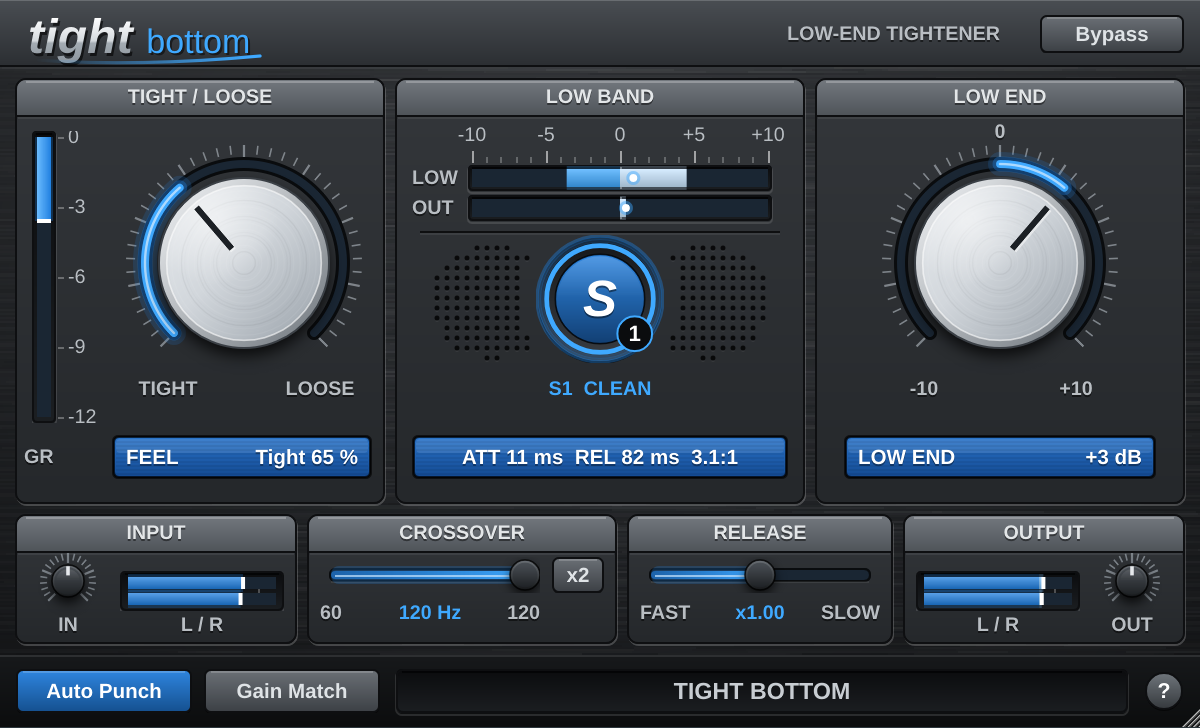
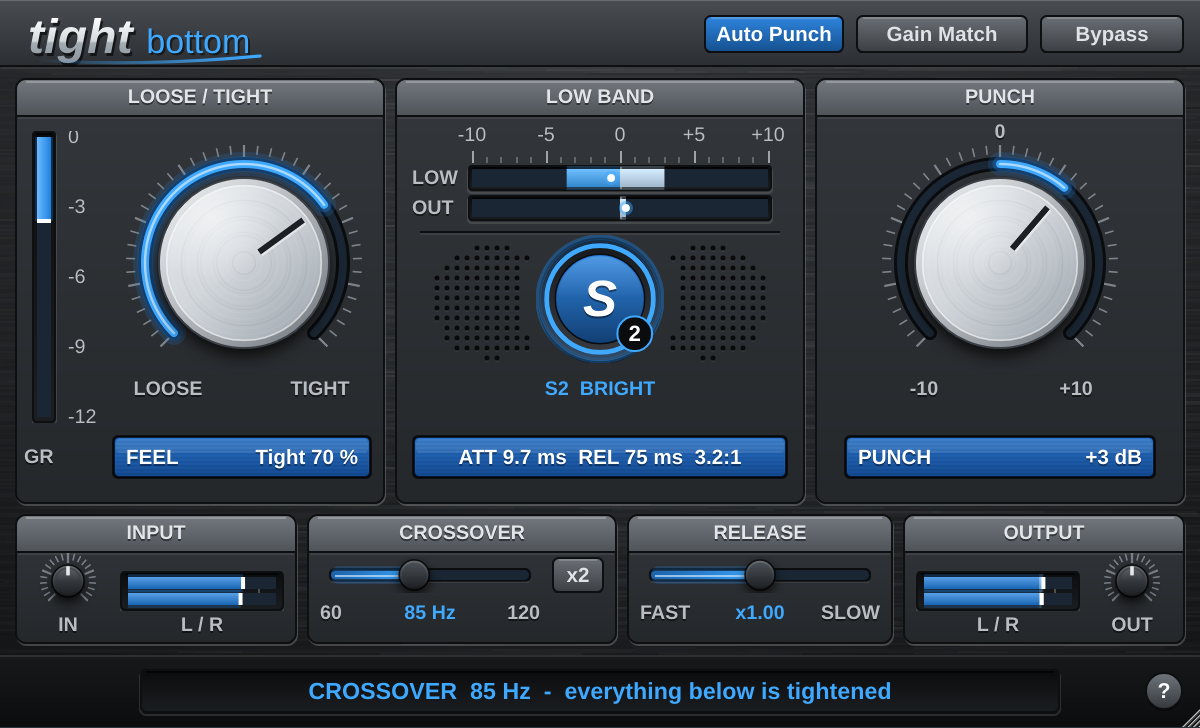
Match the walkthrough: turn up = tighter, PUNCH knob, S Dull/Bright, top-corner buttons
Also double-click a section name (e.g. CROSSOVER) to show its exact value.

Claude-Session: https://claude.ai/code/session_01HY2UoC4CemLNdp8wdHjpG9

diff --git a/Source/PluginEditor.cpp b/Source/PluginEditor.cpp
@@ -12,7 +12,7 @@ namespace
     const Rectangle<float> grilleLeft  { 216.0f, 122.0f, 60.0f, 58.0f };
     const Rectangle<float> grilleRight { 324.0f, 122.0f, 60.0f, 58.0f };
     const Point<float> sCentre { 300.0f, 150.0f };
-    const Rectangle<float> statusBox   { 198.0f, 335.0f, 366.0f, 22.0f };
+    const Rectangle<float> statusBox   { 70.0f, 335.0f, 460.0f, 22.0f };
 }
 
 //==============================================================================
@@ -44,7 +44,7 @@ TightBottomPanel::TightBottomPanel (TightBottomAudioProcessor& p)
     tightKnob.describeValue = [this] (double v) { return describeMacro (v, param (ParamIDs::release)).replace (", ", "\n"); };
     for (VirusKnob* k : { &lowEndKnob, &inKnob, &outKnob })
         k->displayValue = [] (double v) { return formatDb (v); };
-    lowEndKnob.describeValue = [] (double) { return String ("Low-band gain after the compressor (punch back)"); };
+    lowEndKnob.describeValue = [] (double) { return String ("Adds (or removes) low-end punch after the compressor.\nWith Auto Punch on, this adds even more on top."); };
     inKnob.describeValue     = [] (double) { return String ("Input trim"); };
     outKnob.describeValue    = [] (double) { return String ("Output trim (after Gain Match)"); };
 
@@ -62,7 +62,7 @@ TightBottomPanel::TightBottomPanel (TightBottomAudioProcessor& p)
     const std::tuple<TextButton*, const char*, const char*> buttons[] =
     {
         { &x2Button,        ParamIDs::xoverX2,   "x2: doubles the crossover range (120 - 240 Hz)" },
-        { &autoPunchButton, ParamIDs::autoPunch, "Auto Punch: automatic makeup on the low band, so Tight/Loose changes the feel, not the level" },
+        { &autoPunchButton, ParamIDs::autoPunch, "A (Auto Punch): puts the punch back automatically, so Loose/Tight changes the feel, not the level. PUNCH adds more on top" },
         { &gainMatchButton, ParamIDs::gainMatch, "Gain Match: output follows the input loudness (K-weighted, about 3 s) for fair A/B" },
         { &bypassButton,    ParamIDs::bypass,    "Bypass (click-free)" },
     };
@@ -116,6 +116,9 @@ void TightBottomPanel::resized()
     releasePanel = { 314.0f, 258.0f, 132.0f, 64.0f };
     outPanel     = { 452.0f, 258.0f, 140.0f, 64.0f };
 
+    // top corner: A (Auto Punch), Gain Match, Bypass
+    autoPunchButton.setBounds (352, 8, 70, 19);
+    gainMatchButton.setBounds (428, 8, 86, 19);
     bypassButton.setBounds (520, 8, 72, 19);
 
     // TIGHT / LOOSE
@@ -142,8 +145,6 @@ void TightBottomPanel::resized()
     outKnob.setBounds (544, 276, 44, 44);
 
     // bottom bar
-    autoPunchButton.setBounds (8, 335, 88, 22);
-    gainMatchButton.setBounds (102, 335, 88, 22);
     helpButton.setBounds (kWidth - 28, 336, 20, 20);
     helpOverlay.setBounds (getLocalBounds());
 }
@@ -232,16 +233,15 @@ void TightBottomPanel::paint (Graphics& g)
     g.drawHorizontalLine (kTopStripH, 0.0f, (float) kWidth);
 
     drawWordmark (g, { 14.0f, 0.0f, 260.0f, (float) kTopStripH });
-    CustomLookAndFeel::drawSmallLabel (g, "Low-End Tightener", { 300.0f, 8.0f, 200.0f, 19.0f }, Justification::centredRight);
 
     // --- main panels ------------------------------------------------------------------
-    CustomLookAndFeel::drawPanel (g, leftPanel,   "Tight / Loose");
+    CustomLookAndFeel::drawPanel (g, leftPanel,   "Loose / Tight");
     CustomLookAndFeel::drawPanel (g, centrePanel, "Low Band");
-    CustomLookAndFeel::drawPanel (g, rightPanel,  "Low End");
+    CustomLookAndFeel::drawPanel (g, rightPanel,  "Punch");
 
     // Tight / Loose: end labels under the knob, GR label
-    CustomLookAndFeel::drawSmallLabel (g, "Tight", { 52.0f, 188.0f, 64.0f, 14.0f });
-    CustomLookAndFeel::drawSmallLabel (g, "Loose", { 128.0f, 188.0f, 64.0f, 14.0f });
+    CustomLookAndFeel::drawSmallLabel (g, "Loose", { 52.0f, 188.0f, 64.0f, 14.0f });
+    CustomLookAndFeel::drawSmallLabel (g, "Tight", { 128.0f, 188.0f, 64.0f, 14.0f });
     CustomLookAndFeel::drawSmallLabel (g, "GR", { 12.0f, 222.0f, 28.0f, 14.0f }, Justification::centredLeft);
 
     // Low End: -10 / 0 / +10
@@ -258,7 +258,7 @@ void TightBottomPanel::paint (Graphics& g)
     CustomLookAndFeel::drawGrille (g, grilleRight, sCentre, 40.0f);
 
     const int sMode = jlimit (0, 2, roundToInt (param (ParamIDs::sMode)));
-    const String sText[] = { "S Filter  Off", "S1  Clean", "S2  Shape" };
+    const String sText[] = { "S Enhancer  Off", "S1  Dull", "S2  Bright" };
     g.setFont (CustomLookAndFeel::uiFont (11.0f, true));
     g.setColour (sMode > 0 ? VirusColours::blue : VirusColours::labelText);
     g.drawText (sText[sMode].toUpperCase(), Rectangle<float> (206.0f, 188.0f, 188.0f, 14.0f), Justification::centred);
@@ -295,7 +295,9 @@ void TightBottomPanel::paint (Graphics& g)
     CustomLookAndFeel::drawInsetBox (g, statusBox, 3.0f);
     g.setFont (CustomLookAndFeel::uiFont (13.0f, true));
     g.setColour (Colour (0xffc8cdd2));
-    g.drawText ("TIGHT BOTTOM", statusBox, Justification::centred);
+    const bool showMessage = Time::getMillisecondCounterHiRes() < statusUntilMs;
+    if (showMessage) g.setColour (VirusColours::blue);
+    g.drawText (showMessage ? statusMessage : String ("TIGHT BOTTOM"), statusBox, Justification::centred);
 }
 
 //==============================================================================
@@ -316,7 +318,7 @@ void TightBottomPanel::timerCallback()
 
     const float tl = param (ParamIDs::tightLoose);
     tightLcd.setContent ("FEEL", describeTightLoose (tl));
-    lowEndLcd.setContent ("LOW END", formatDb (param (ParamIDs::lowEnd)));
+    lowEndLcd.setContent ("PUNCH", formatDb (param (ParamIDs::lowEnd)));
 
     const auto macro = tb::macroSettings (knobToTightness (tl), sliderToReleaseScale (param (ParamIDs::release)));
     macroLcd.setContent ({}, "ATT " + formatMs (macro.attackMs) + "  REL " + formatMs (macro.releaseMs)
@@ -325,11 +327,45 @@ void TightBottomPanel::timerCallback()
     // repaint the static labels when S mode or x2 change (also from automation)
     const int labelState = roundToInt (param (ParamIDs::sMode)) * 2 + (param (ParamIDs::xoverX2) > 0.5f ? 1 : 0)
                          + 8 * roundToInt (param (ParamIDs::crossover) * 10.0f) + 8 * 4096 * roundToInt (param (ParamIDs::release) * 10.0f);
+    if (statusUntilMs > 0.0 && now >= statusUntilMs)
+    {
+        statusUntilMs = 0.0;
+        repaint (statusBox.toNearestInt());
+    }
     if (labelState != lastLabelState)
     {
         lastLabelState = labelState;
         repaint();
     }
+}
+
+//==============================================================================
+void TightBottomPanel::showStatus (const String& text)
+{
+    statusMessage = text;
+    statusUntilMs = Time::getMillisecondCounterHiRes() + 2500.0;
+    repaint (statusBox.toNearestInt());
+}
+
+void TightBottomPanel::mouseDoubleClick (const MouseEvent& e)
+{
+    // Double-click a section name to see exactly where it is set.
+    const auto p = e.position;
+    const auto header = [] (Rectangle<float> r) { return r.withHeight (18.0f); };
+    const bool x2 = param (ParamIDs::xoverX2) > 0.5f;
+
+    if (header (xoverPanel).contains (p))
+        showStatus ("CROSSOVER  " + formatHz (crossoverHz (param (ParamIDs::crossover), x2))
+                    + "  -  everything below is tightened");
+    else if (header (releasePanel).contains (p))
+    {
+        const auto m = tb::macroSettings (knobToTightness (param (ParamIDs::tightLoose)), sliderToReleaseScale (param (ParamIDs::release)));
+        showStatus ("RELEASE  " + formatMs (m.releaseMs));
+    }
+    else if (header (leftPanel).contains (p))
+        showStatus (describeMacro (param (ParamIDs::tightLoose), param (ParamIDs::release)).toUpperCase());
+    else if (header (rightPanel).contains (p))
+        showStatus ("PUNCH  " + formatDb (param (ParamIDs::lowEnd)));
 }
 
 //==============================================================================

diff --git a/Source/Parameters.h b/Source/Parameters.h
@@ -8,7 +8,7 @@ namespace tbp
 {
     namespace ParamIDs
     {
-        inline constexpr const char* tightLoose = "tightLoose";  // 0 = TIGHT .. 100 = LOOSE
+        inline constexpr const char* tightLoose = "tightLoose";  // 0 = LOOSE .. 100 = TIGHT (turn up = tighter)
         inline constexpr const char* lowEnd     = "lowEnd";      // dB
         inline constexpr const char* inGain     = "inGain";      // dB
         inline constexpr const char* outGain    = "outGain";     // dB
@@ -21,7 +21,7 @@ namespace tbp
         inline constexpr const char* bypass     = "bypass";
     }
 
-    inline juce::StringArray getSModeNames() { return { "Off", "1 Clean", "2 Shape" }; }
+    inline juce::StringArray getSModeNames() { return { "Off", "1 Dull", "2 Bright" }; }
 
     //==========================================================================
     // Value <-> text
@@ -44,16 +44,16 @@ namespace tbp
 
     inline juce::String formatHz (double hz)  { return juce::String (juce::roundToInt (hz)) + " Hz"; }
 
-    /** Knob (0 = Tight .. 100 = Loose) -> compressor tightness (1 = Tight .. 0 = Loose). */
-    inline double knobToTightness (double knob)   { return 1.0 - juce::jlimit (0.0, 100.0, knob) / 100.0; }
+    /** Knob (0 = Loose .. 100 = Tight) -> compressor tightness (0 = Loose .. 1 = Tight). */
+    inline double knobToTightness (double knob)   { return juce::jlimit (0.0, 100.0, knob) / 100.0; }
     inline double sliderToReleaseScale (double v) { return tb::releaseScaleFromSlider (v / 100.0); }
 
     inline juce::String describeTightLoose (double knob)
     {
-        const double loose = juce::jlimit (0.0, 100.0, knob);
-        if (loose < 0.5)  return "Tight";
-        if (loose > 99.5) return "Loose";
-        return loose <= 50.0 ? "Tight " + formatNumber (100.0 - loose) + " %" : "Loose " + formatNumber (loose) + " %";
+        const double tight = juce::jlimit (0.0, 100.0, knob);
+        if (tight < 0.5)  return "Loose";
+        if (tight > 99.5) return "Tight";
+        return tight >= 50.0 ? "Tight " + formatNumber (tight) + " %" : "Loose " + formatNumber (100.0 - tight) + " %";
     }
 
     inline juce::String describeMacro (double knob, double releaseSlider)
@@ -90,7 +90,7 @@ namespace tbp
             NormalisableRange<float> (0.0f, 100.0f, 0.1f), 50.0f,
             AudioParameterFloatAttributes().withStringFromValueFunction ([] (float v, int) { return describeTightLoose (v); })));
 
-        layout.add (std::make_unique<AudioParameterFloat> (ParameterID { ParamIDs::lowEnd, 1 }, "Low End",
+        layout.add (std::make_unique<AudioParameterFloat> (ParameterID { ParamIDs::lowEnd, 1 }, "Punch",
             NormalisableRange<float> ((float) lowEndMinDb, (float) lowEndMaxDb, 0.1f), (float) lowEndDefaultDb, dbAttrs));
 
         layout.add (std::make_unique<AudioParameterFloat> (ParameterID { ParamIDs::inGain, 1 }, "Input",
@@ -111,7 +111,7 @@ namespace tbp
             NormalisableRange<float> (0.0f, 100.0f, 0.1f), 50.0f,
             AudioParameterFloatAttributes().withStringFromValueFunction ([] (float v, int) { return describeRelease (v); })));
 
-        layout.add (std::make_unique<AudioParameterChoice> (ParameterID { ParamIDs::sMode, 1 }, "S Filter", getSModeNames(), 0));
+        layout.add (std::make_unique<AudioParameterChoice> (ParameterID { ParamIDs::sMode, 1 }, "S Enhancer", getSModeNames(), 0));
         layout.add (std::make_unique<AudioParameterBool> (ParameterID { ParamIDs::autoPunch, 1 }, "Auto Punch", true));
         layout.add (std::make_unique<AudioParameterBool> (ParameterID { ParamIDs::gainMatch, 1 }, "Gain Match", false));
         layout.add (std::make_unique<AudioParameterBool> (ParameterID { ParamIDs::bypass, 1 }, "Bypass", false));

diff --git a/Source/UI/Components.cpp b/Source/UI/Components.cpp
@@ -205,10 +205,11 @@ void SModeButton::mouseDown (const MouseEvent&)
 
 String SModeButton::getTooltip()
 {
-    String t = "S FILTER  " + tbp::getSModeNames()[mode].toUpperCase() + "\n";
-    t << "Off: no filtering\n"
-      << "1 Clean: 24 dB/oct high-pass at " << roundToInt (voicing::sHighPassHz) << " Hz\n"
-      << "2 Shape: high-pass + " << tbp::formatDb (voicing::sBell1GainDb) << " at " << roundToInt (voicing::sBell1Hz)
+    String t = "S (SONIC ENHANCER)  " + tbp::getSModeNames()[mode].toUpperCase() + "\n";
+    t << "Sculpts the sound - use your ears, it differs per track\n"
+      << "Off: no shaping\n"
+      << "1 Dull: 24 dB/oct high-pass at " << roundToInt (voicing::sHighPassHz) << " Hz\n"
+      << "2 Bright: high-pass + " << tbp::formatDb (voicing::sBell1GainDb) << " at " << roundToInt (voicing::sBell1Hz)
       << " Hz + " << tbp::formatDb (voicing::sBell2GainDb) << " at " << roundToInt (voicing::sBell2Hz) << " Hz\n"
       << "Click to cycle";
     return t;
@@ -520,14 +521,14 @@ void HelpOverlay::paint (Graphics& g)
     const char* lines[] =
     {
         "Splits off the low end (kick + bass), compresses it as one band, then lets you add punch back.",
-        "TIGHT / LOOSE:  one macro for attack, release, ratio and threshold depth (hover for values)",
-        "LOW END:  -10 .. +10 dB on the low band after the compressor (the punch-back control)",
-        "S:  Off / 1 Clean (65 Hz 24 dB/oct high-pass) / 2 Shape (high-pass + low-mid dip + body lift)",
-        "CROSSOVER:  where the low band ends (60 - 120 Hz, or 120 - 240 Hz with x2)",
+        "LOOSE / TIGHT:  turn up = tighter. One macro for attack, release, ratio, threshold (hover)",
+        "PUNCH:  -10 .. +10 dB on the low band after the compressor - puts punch back",
+        "S (sonic enhancer):  Off / 1 Dull (65 Hz high-pass) / 2 Bright (+ low-mid dip, body lift)",
+        "CROSSOVER:  everything below (blue) is tightened. Double-click the name for the exact Hz",
         "RELEASE:  scales the macro's release time from x0.5 (FAST) to x2 (SLOW)",
-        "AUTO PUNCH:  automatic makeup on the low band, so Tight/Loose changes feel, not level",
+        "A (AUTO PUNCH):  puts the punch back automatically; PUNCH then adds even more on top",
         "GAIN MATCH:  output follows the input loudness (K-weighted, 3 s) for fair A/B with Bypass",
-        "Meters:  GR (left), LOW = reduction / punch, OUT = level change vs input, IN / OUT peaks",
+        "Meters:  LOW dot moves left as it tightens; add punch until it bounces around 0",
         "Knobs and sliders: drag or scroll wheel in steps of 1, Shift = 0.1, double-click = default",
         "Drag the bottom-right corner to resize.",
         "",

diff --git a/Source/PluginEditor.h b/Source/PluginEditor.h
@@ -30,8 +30,8 @@ private:
     CustomLookAndFeel lnf;
     juce::Image background;
 
-    VirusKnob tightKnob  { VirusKnob::Size::Large, "Tight / Loose" };
-    VirusKnob lowEndKnob { VirusKnob::Size::Large, "Low End", true };
+    VirusKnob tightKnob  { VirusKnob::Size::Large, "Loose / Tight" };
+    VirusKnob lowEndKnob { VirusKnob::Size::Large, "Punch", true };
     VirusKnob inKnob     { VirusKnob::Size::Small, "In" };
     VirusKnob outKnob    { VirusKnob::Size::Small, "Out" };
     VirusSlider crossoverSlider { "Crossover" };
@@ -58,6 +58,11 @@ private:
     juce::Rectangle<float> leftPanel, centrePanel, rightPanel, inPanel, xoverPanel, releasePanel, outPanel;
     double lastTimerMs = 0.0;
     int lastLabelState = -1;
+    juce::String statusMessage;          // shown in the bottom display for a moment
+    double statusUntilMs = 0.0;
+
+    void mouseDoubleClick (const juce::MouseEvent&) override;
+    void showStatus (const juce::String&);
 
     JUCE_DECLARE_NON_COPYABLE_WITH_LEAK_DETECTOR (TightBottomPanel)
 };

diff --git a/README.md b/README.md
@@ -21,15 +21,20 @@ Input -> IN trim -> S filter (Off / 1 Clean / 2 Shape)
 
 | Control | What it does |
 |---------|--------------|
-| **TIGHT / LOOSE** (big knob) | One macro for the low-band compressor: attack 6 to 30 ms, release 45 to 250 ms, ratio 4:1 to 1.5:1, threshold 6 to 1 dB under the band's own long-term level. Hover it to see the current values |
-| **LOW END** (big knob) | -10 to +10 dB on the low band after the compressor (the punch-back control) |
-| **S** (round button) | Cycles Off, 1 Clean (65 Hz 24 dB/oct high-pass) and 2 Shape (high-pass, -2 dB at 160 Hz, +1.5 dB at 280 Hz). Click-free |
-| **CROSSOVER** + **x2** | Low/high split, 60 to 120 Hz, or 120 to 240 Hz with x2. Default 120 Hz |
+| **LOOSE / TIGHT** (left big knob) | Turn it up for tighter, down for looser. One macro for the low-band compressor: attack 30 to 6 ms, release 250 to 45 ms, ratio 1.5:1 to 4:1, threshold 1 to 6 dB under the band's own long-term level. Hover it to see the current values |
+| **PUNCH** (right big knob) | -10 to +10 dB on the low band after the compressor, to put punch back. With Auto Punch on, it adds even more on top (this is the spec's "Low End" control) |
+| **S** (sonic enhancer, round button) | Cycles Off, 1 Dull (65 Hz 24 dB/oct high-pass) and 2 Bright (high-pass, -2 dB at 160 Hz, +1.5 dB at 280 Hz). Click-free. Use your ears; it differs per track |
+| **CROSSOVER** + **x2** | Everything below the crossover (the blue part of the slider) is tightened. 60 to 120 Hz, or 120 to 240 Hz with x2. Default 120 Hz. Double-click the CROSSOVER name to show the exact frequency |
 | **RELEASE** | Scales the macro's release from x0.5 (FAST) to x2 (SLOW) |
 | **IN / OUT** | -12 to +12 dB trims. OUT comes after Gain Match |
-| **AUTO PUNCH** | Automatic makeup on the low band (inverse of the average GR over about 400 ms). Turning Tight/Loose changes the feel, not the level. On by default |
-| **GAIN MATCH** | Output follows input loudness (K-weighted, about 3 s, max ±12 dB) for a fair A/B with Bypass. Off by default |
-| **BYPASS** | Click-free. It is also the host bypass in Cubase |
+| **AUTO PUNCH** (top corner) | Automatic makeup on the low band (inverse of the average GR over about 400 ms). Turning Tight/Loose changes the feel, not the level. On by default |
+| **GAIN MATCH** (top corner) | Output follows input loudness (K-weighted, about 3 s, max ±12 dB) for a fair A/B with Bypass. Off by default |
+| **BYPASS** (top corner) | Click-free. It is also the host bypass in Cubase |
+
+**Typical use:** turn LOOSE / TIGHT up and watch the dot on the **LOW** meter move left (the low end
+is being held down). Then either turn PUNCH up until the dot bounces around 0, or press Auto
+Punch to do that automatically and use PUNCH to add more weight on top. Gain Match lets you hear
+only the tightening, not a level change.
 
 **Meters:** **GR** (left) shows low-band gain reduction from 0 to -12 dB. The centre meter's
 **LOW** row shows reduction (blue, left of 0) and Auto Punch + Low End (pale, right of 0); the
@@ -37,7 +42,7 @@ dot is the net change. **OUT** shows how far the output level differs from the i
 OUT** are L/R peak meters.
 
 **Knobs and sliders** move in steps of 1 when you drag them or use the scroll wheel (Shift gives
-0.1 steps), and double-click resets them. Hover any control for its value. The window resizes
+0.1 steps), and double-click resets them. Hover any control for its value, or double-click a section name to show its setting in the bottom display. The window resizes
 from 75 to 200 % from the bottom-right corner and remembers its size. All parameters can be
 automated and are saved with the project.
 
